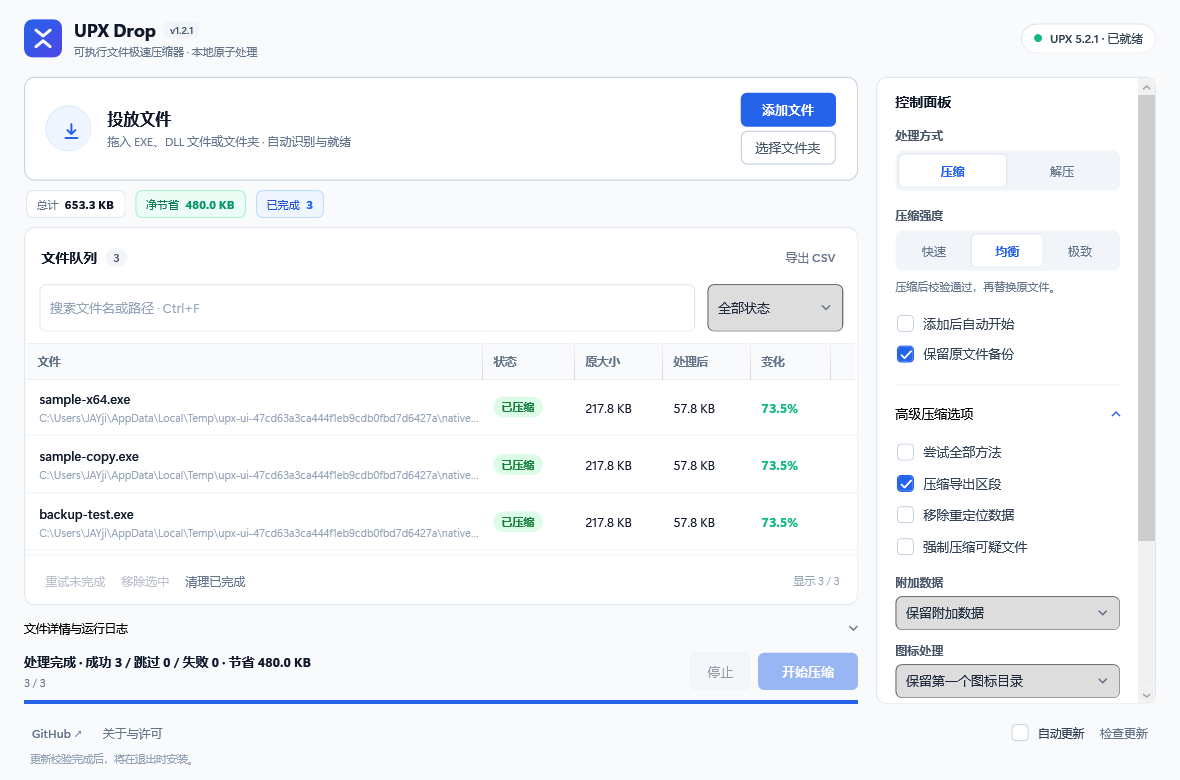
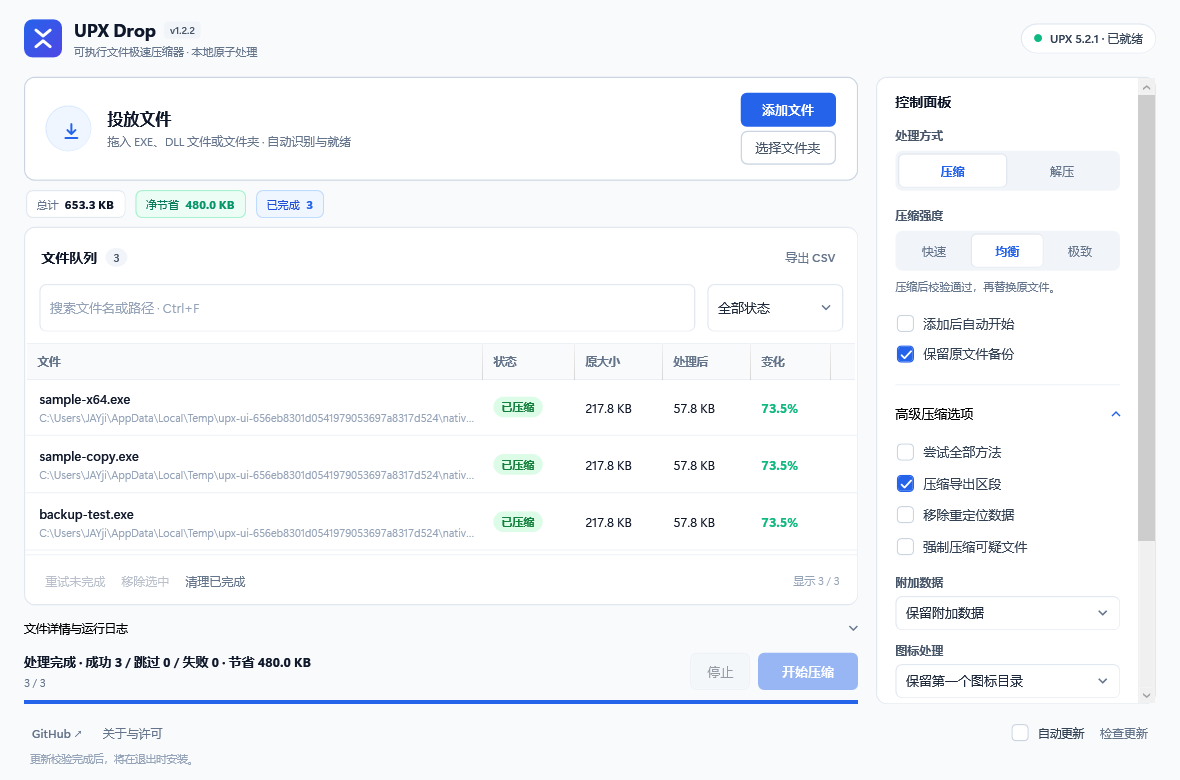
修正下拉框默认灰底和键盘焦点样式

diff --git a/src/MainWindow.xaml b/src/MainWindow.xaml
@@ -18,9 +18,9 @@
    <Setter Property="Template"><Setter.Value><ControlTemplate TargetType="ComboBoxItem"><Border x:Name="Item" CornerRadius="4" Background="Transparent" Padding="{TemplateBinding Padding}"><ContentPresenter/></Border><ControlTemplate.Triggers><Trigger Property="IsHighlighted" Value="True"><Setter TargetName="Item" Property="Background" Value="#F1F5F9"/></Trigger><Trigger Property="IsSelected" Value="True"><Setter TargetName="Item" Property="Background" Value="#EFF6FF"/><Setter Property="Foreground" Value="#2563EB"/><Setter Property="FontWeight" Value="SemiBold"/></Trigger></ControlTemplate.Triggers></ControlTemplate></Setter.Value></Setter>
   </Style>
   <Style TargetType="ComboBox">
-   <Setter Property="Foreground" Value="#1E293B"/><Setter Property="MinHeight" Value="34"/><Setter Property="Background" Value="#FFFFFF"/><Setter Property="BorderBrush" Value="#E2E8F0"/><Setter Property="Cursor" Value="Hand"/>
+   <Setter Property="FocusVisualStyle" Value="{x:Null}"/><Setter Property="Foreground" Value="#1E293B"/><Setter Property="MinHeight" Value="34"/><Setter Property="Background" Value="#FFFFFF"/><Setter Property="BorderBrush" Value="#E2E8F0"/><Setter Property="Cursor" Value="Hand"/>
    <Setter Property="Template"><Setter.Value><ControlTemplate TargetType="ComboBox"><Grid>
-    <ToggleButton Focusable="False" IsChecked="{Binding IsDropDownOpen, RelativeSource={RelativeSource TemplatedParent}, Mode=TwoWay}" ClickMode="Press"><ToggleButton.Template><ControlTemplate TargetType="ToggleButton"><Border x:Name="Face" Background="{TemplateBinding Background}" BorderBrush="{TemplateBinding BorderBrush}" BorderThickness="1" CornerRadius="6"><Path Data="M 0 0 L 4 4 L 8 0" Stroke="#64748B" StrokeThickness="1.5" HorizontalAlignment="Right" VerticalAlignment="Center" Margin="0,0,12,0"/></Border><ControlTemplate.Triggers><Trigger Property="IsMouseOver" Value="True"><Setter TargetName="Face" Property="BorderBrush" Value="#CBD5E1"/></Trigger><Trigger Property="IsChecked" Value="True"><Setter TargetName="Face" Property="BorderBrush" Value="#2563EB"/></Trigger></ControlTemplate.Triggers></ControlTemplate></ToggleButton.Template></ToggleButton>
+    <ToggleButton x:Name="DropDownToggle" Background="{TemplateBinding Background}" BorderBrush="{TemplateBinding BorderBrush}" Focusable="False" IsChecked="{Binding IsDropDownOpen, RelativeSource={RelativeSource TemplatedParent}, Mode=TwoWay}" ClickMode="Press"><ToggleButton.Template><ControlTemplate TargetType="ToggleButton"><Border x:Name="Face" Background="{TemplateBinding Background}" BorderBrush="{TemplateBinding BorderBrush}" BorderThickness="1" CornerRadius="6"><Path Data="M 0 0 L 4 4 L 8 0" Stroke="#64748B" StrokeThickness="1.5" HorizontalAlignment="Right" VerticalAlignment="Center" Margin="0,0,12,0"/></Border><ControlTemplate.Triggers><Trigger Property="IsMouseOver" Value="True"><Setter TargetName="Face" Property="Background" Value="#F8FAFC"/><Setter TargetName="Face" Property="BorderBrush" Value="#CBD5E1"/></Trigger><Trigger Property="IsChecked" Value="True"><Setter TargetName="Face" Property="Background" Value="#EFF6FF"/><Setter TargetName="Face" Property="BorderBrush" Value="#2563EB"/></Trigger><DataTrigger Binding="{Binding IsKeyboardFocusWithin, RelativeSource={RelativeSource AncestorType=ComboBox}}" Value="True"><Setter TargetName="Face" Property="Background" Value="#EFF6FF"/><Setter TargetName="Face" Property="BorderBrush" Value="#2563EB"/></DataTrigger></ControlTemplate.Triggers></ControlTemplate></ToggleButton.Template></ToggleButton>
     <ContentPresenter Content="{TemplateBinding SelectionBoxItem}" ContentTemplate="{TemplateBinding SelectionBoxItemTemplate}" Margin="11,6,30,6" VerticalAlignment="Center" IsHitTestVisible="False"/>
     <Popup x:Name="PART_Popup" Placement="Bottom" IsOpen="{TemplateBinding IsDropDownOpen}" AllowsTransparency="True" Focusable="False"><Border Background="#FFFFFF" BorderBrush="#E2E8F0" BorderThickness="1" CornerRadius="8" Padding="4" Margin="0,4,0,0" MinWidth="{Binding ActualWidth, RelativeSource={RelativeSource TemplatedParent}}" MaxHeight="320"><ScrollViewer><ItemsPresenter KeyboardNavigation.DirectionalNavigation="Contained"/></ScrollViewer></Border></Popup>
    </Grid><ControlTemplate.Triggers><Trigger Property="IsEnabled" Value="False"><Setter Property="Opacity" Value="0.45"/></Trigger><Trigger Property="IsKeyboardFocusWithin" Value="True"><Setter Property="BorderBrush" Value="#2563EB"/></Trigger></ControlTemplate.Triggers></ControlTemplate></Setter.Value></Setter>
@@ -76,7 +76,7 @@
      <StackPanel Orientation="Horizontal" VerticalAlignment="Center">
       <TextBlock Text="UPX Drop" FontSize="18" FontWeight="Bold" Foreground="#0F172A"/>
       <Border Background="#F1F5F9" CornerRadius="4" Padding="6,2" Margin="8,0,0,0" VerticalAlignment="Center">
-       <TextBlock x:Name="AppVersion" Text="v1.2.1" FontSize="10" FontWeight="SemiBold" Foreground="#475569"/>
+       <TextBlock x:Name="AppVersion" Text="v1.2.2" FontSize="10" FontWeight="SemiBold" Foreground="#475569"/>
       </Border>
      </StackPanel>
      <TextBlock Text="可执行文件极速压缩器 · 本地原子处理" FontSize="11" Foreground="#64748B" Margin="0,2,0,0"/>

diff --git a/src/Updater.cs b/src/Updater.cs
@@ -16,7 +16,7 @@ namespace UpxDrop {
  public sealed class ReleaseAsset { public string Version, Url, ChecksumUrl, Digest; public long Size; }
  public static class Updater {
   public const string RepositoryUrl = "https://github.com/Jay1023CN/upx-drop";
-  public const string CurrentVersion = "1.2.1";
+  public const string CurrentVersion = "1.2.2";
   const string AssetName = "UpxDrop.exe";
   sealed class Client : WebClient {
    public Client() { Headers["User-Agent"] = "UpxDrop/" + CurrentVersion; Headers["Accept"] = "application/vnd.github+json"; }

diff --git a/src/AssemblyInfo.cs b/src/AssemblyInfo.cs
@@ -3,5 +3,5 @@
 [assembly: AssemblyDescription("Single-file Windows frontend for official UPX")]
 [assembly: AssemblyCompany("Jay1023CN")]
 [assembly: AssemblyProduct("UPX Drop")]
-[assembly: AssemblyVersion("1.2.1.0")]
-[assembly: AssemblyFileVersion("1.2.1.0")]
+[assembly: AssemblyVersion("1.2.2.0")]
+[assembly: AssemblyFileVersion("1.2.2.0")]

diff --git a/README.md b/README.md
@@ -16,7 +16,7 @@
 
 ![UPX Drop 主界面](docs/images/workspace.png)
 
-<p align="center"><sub>1.2.1 界面 · 图中为官方 UPX 处理原生测试程序的实际结果，压缩率取决于文件本身。</sub></p>
+<p align="center"><sub>1.2.2 界面 · 图中为官方 UPX 处理原生测试程序的实际结果，压缩率取决于文件本身。</sub></p>
 
 ---
 
@@ -108,7 +108,7 @@ powershell -ExecutionPolicy Bypass -File .\package.ps1
 
 - `outputs/UpxDrop.exe`：唯一需要分发给最终用户的程序。
 - `outputs/UpxDrop.exe.sha256`：自动更新校验附件。
-- `outputs/UpxDrop-1.2.1-source.zip`：应用完整源码、构建脚本和 UPX 对应完整源码归档；与 EXE 在同一 Release 发布，运行程序不依赖它。
+- `outputs/UpxDrop-1.2.2-source.zip`：应用完整源码、构建脚本和 UPX 对应完整源码归档；与 EXE 在同一 Release 发布，运行程序不依赖它。
 
 现有核心测试使用本地 fixture 子进程，覆盖备份、取消、原文件保护、签名检测和选项传递，不等同于真实 UPX 对所有软件的兼容性验证。另有更新元数据/完整性测试、内嵌引擎释放与缓存修复测试、两种窗口大小的 XAML 渲染检查，以及隔离目录只放一个 EXE 的离线启动检查。Windows 更新测试使用独立的旧/新 EXE fixture，验证退出后替换与重启、含中文/空格/单引号的路径，以及新 EXE 无法启动时还原旧程序。压缩文件备份默认关闭；自更新回滚仅在更新安装期间临时保留旧程序，两者相互独立。
 

diff --git a/docs/RELEASE-1.2.2.md b/docs/RELEASE-1.2.2.md
@@ -1,0 +1,9 @@
+# UPX Drop 1.2.2
+
+修正下拉框误用 Windows 默认灰色按钮背景的问题。
+
+- 状态筛选、附加数据和图标处理下拉框统一为白底、浅色边框。
+- 悬停使用浅色反馈，展开和键盘聚焦使用淡蓝底与蓝色边框。
+- 用蓝色焦点边框替代系统黑色虚线框，保留键盘操作提示。
+
+下载 **UpxDrop.exe** 即可使用。校验文件为 **UpxDrop.exe.sha256**，完整源码包为 **UpxDrop-1.2.2-source.zip**。

diff --git a/docs/UI-INTEGRATION.md b/docs/UI-INTEGRATION.md
@@ -1,6 +1,6 @@
 # 界面与功能接入约定
 
-1.2.1 的界面与队列功能已接入。后续调整布局、配色、字体和动效时，可按下面的控件约定复用功能层。
+1.2.2 的界面与队列功能已接入。后续调整布局、配色、字体和动效时，可按下面的控件约定复用功能层。
 
 ## 文件分工
 
